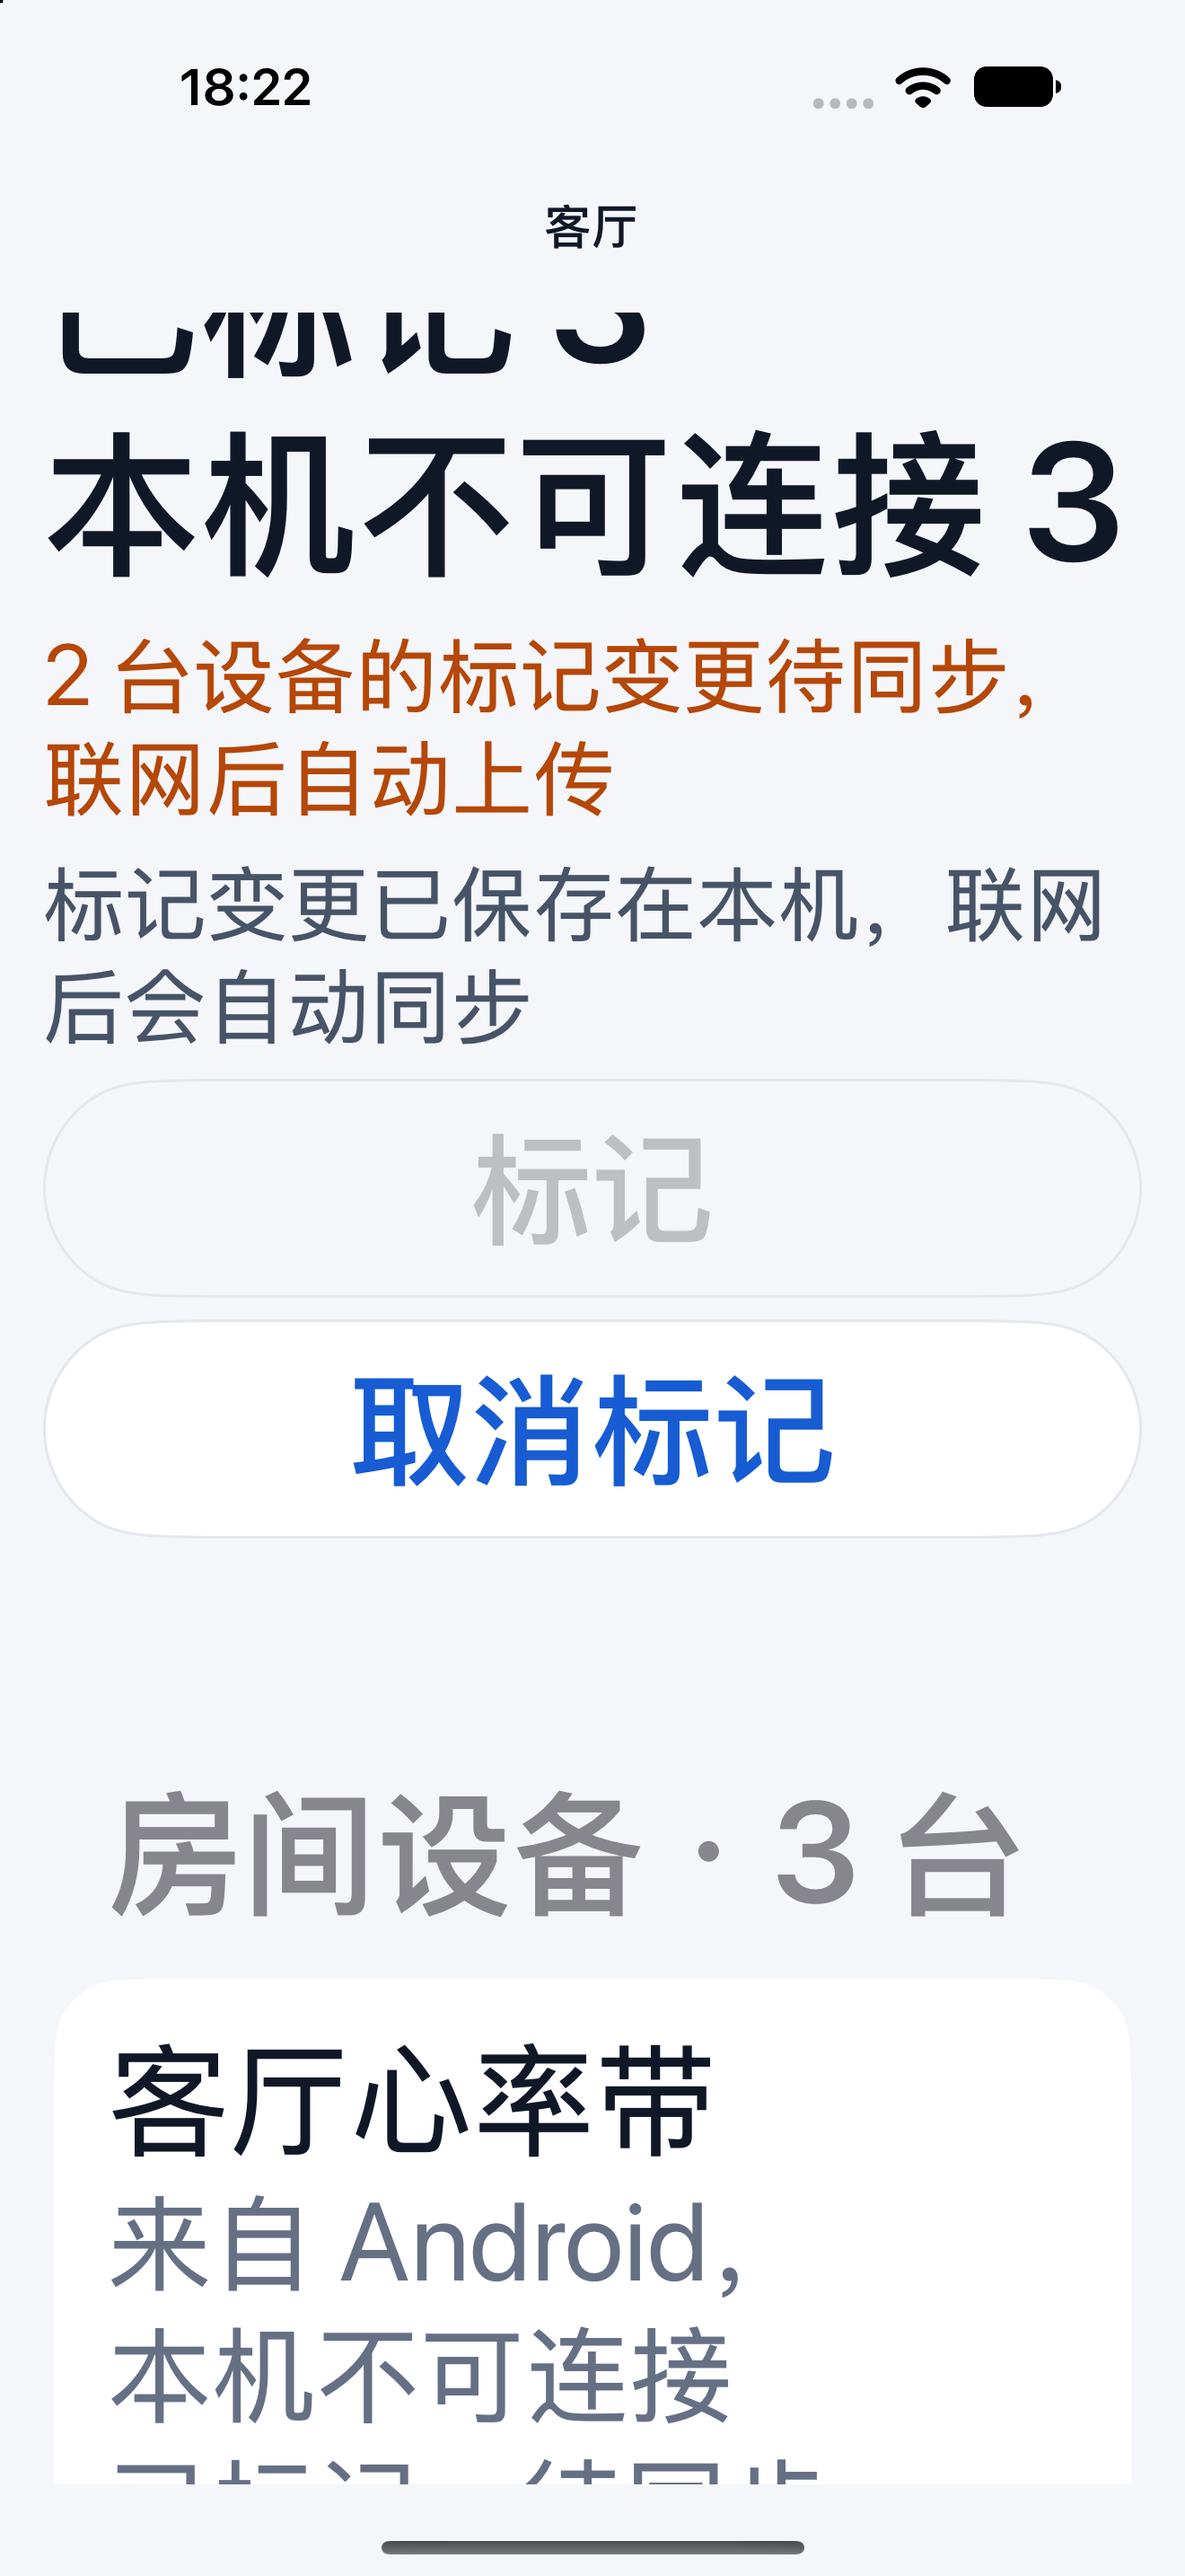
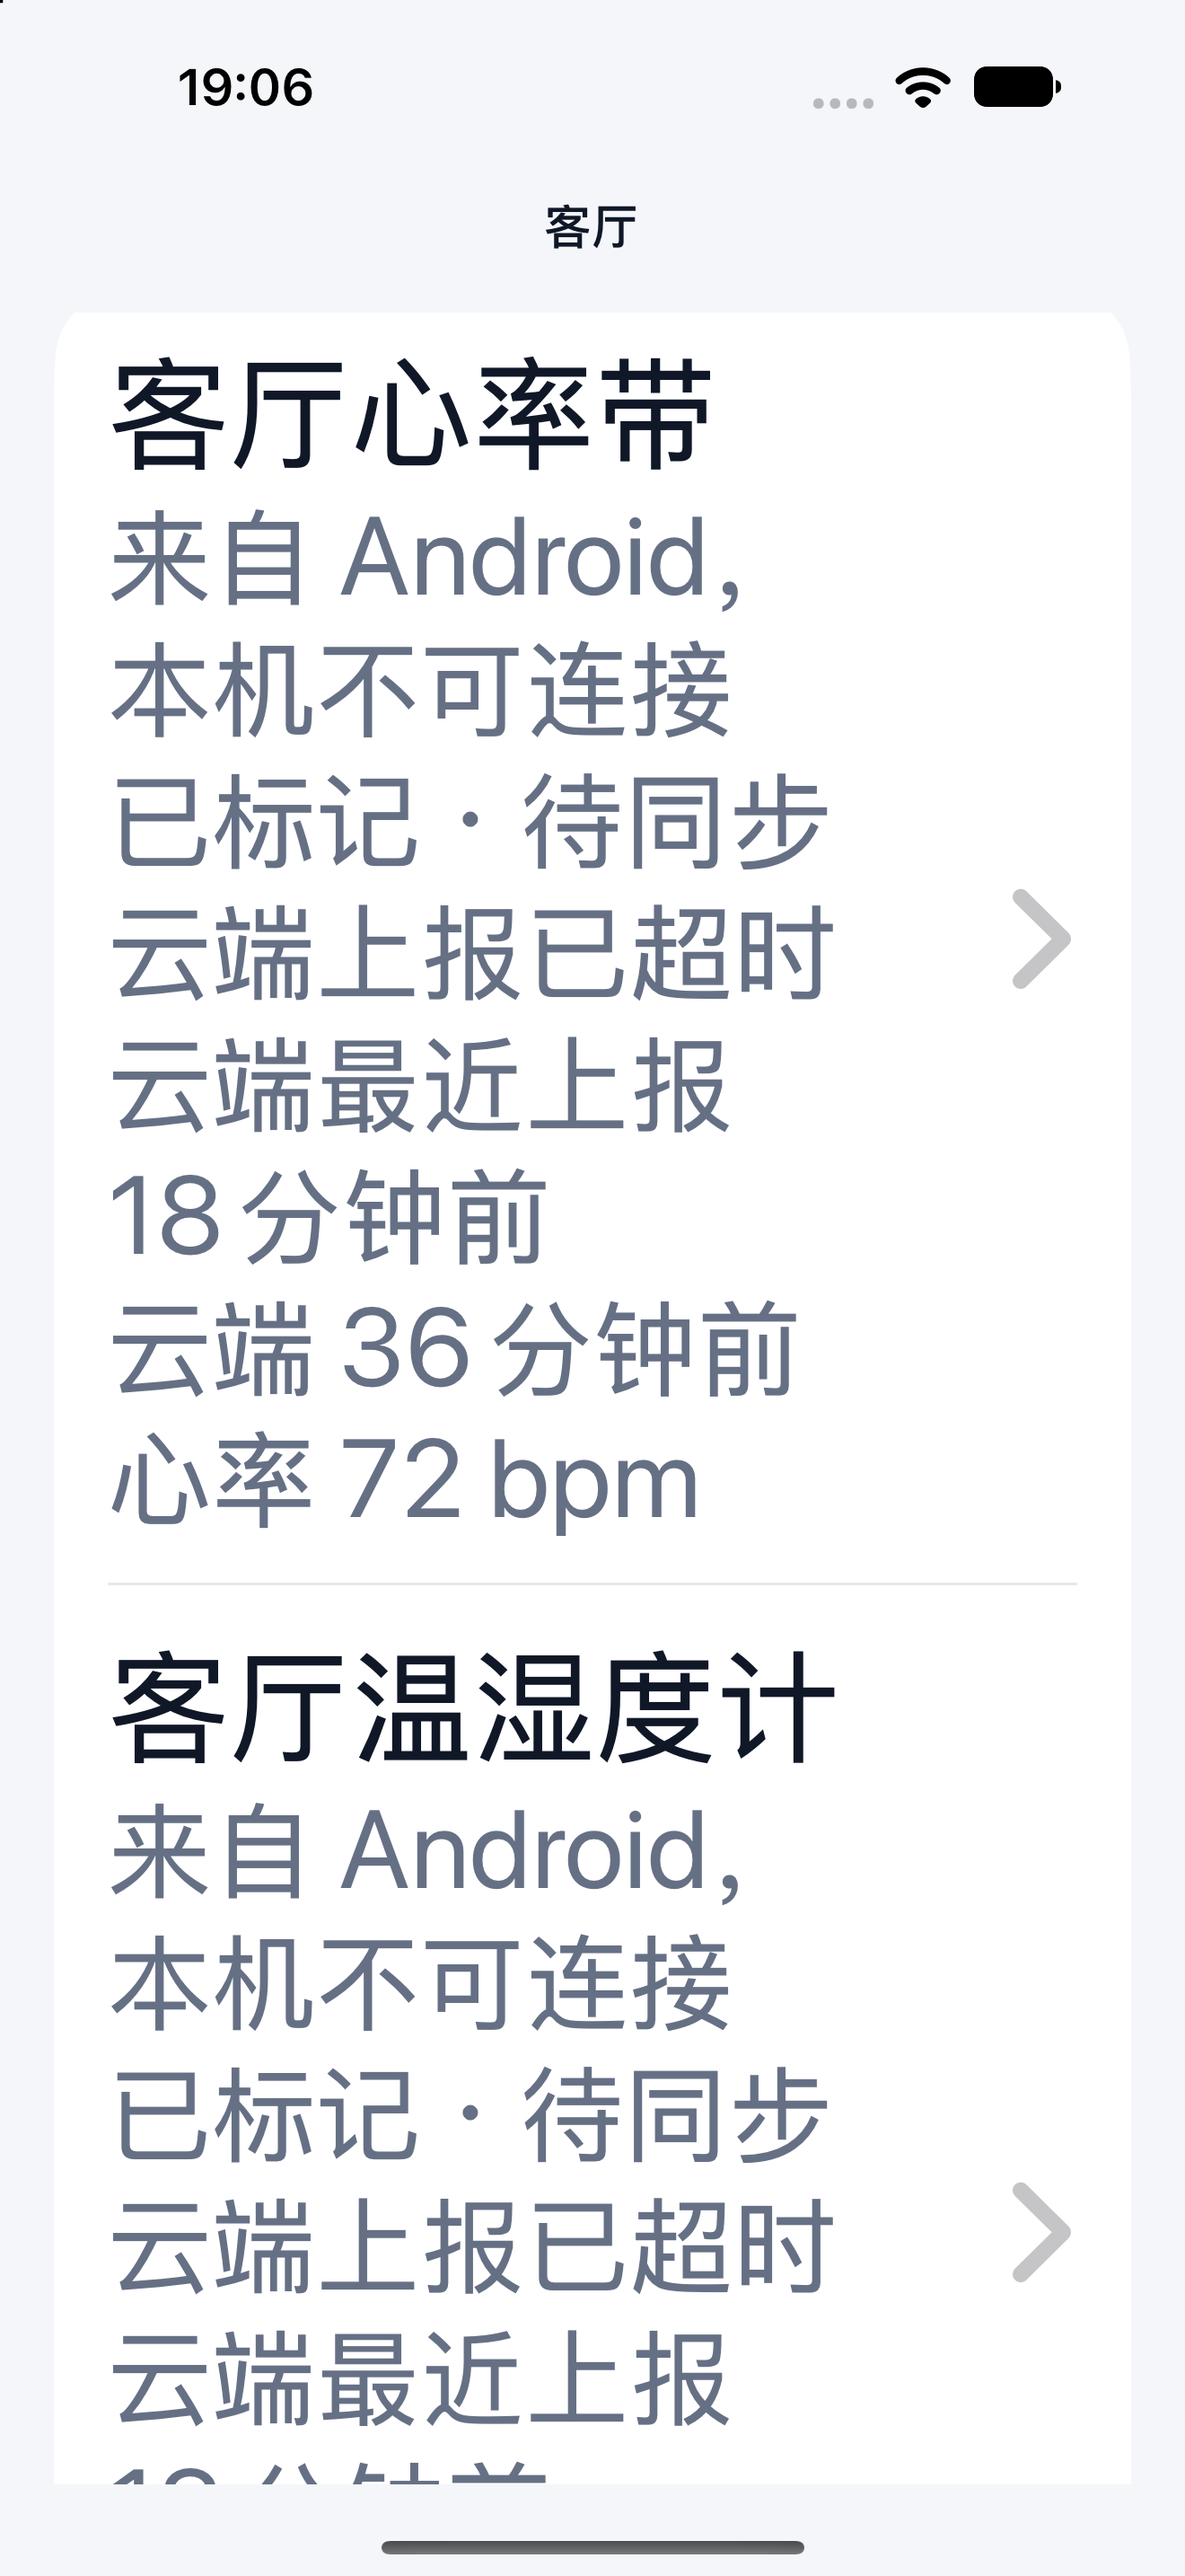
docs: 重拍 AX5 房间详情截图并对齐提示/说明，去掉顶部半截文字
pending / member 分别以提示与只读说明顶部对齐，rows 对齐分区头、pending-rows 对齐首台设备卡片；README 同步说明取景方式。

diff --git a/README.md b/README.md
@@ -80,7 +80,7 @@
 
 | 档位 / 设备 | 截图 | 内容 |
 | --- | --- | --- |
-| AX5（`accessibilityExtraExtraExtraLarge`）<br>iPhone 18 Pro Max · iOS 27.2 | [room-detail-ax5.png](docs/screenshots/room-detail-ax5.png) · [rows](docs/screenshots/room-detail-ax5-rows.png) · [pending](docs/screenshots/room-detail-ax5-pending.png) · [pending-rows](docs/screenshots/room-detail-ax5-pending-rows.png) · [empty](docs/screenshots/room-detail-ax5-empty.png) · [member](docs/screenshots/room-detail-ax5-member.png) | 汇总在 AX 档按项换行（共 3 台 + 6 个计数，部分项再折行），首屏下缘可见批量按钮、设备行需滚动查看（rows）；批量按钮全宽竖排且高度随字号增长，设备行名称 / 四档状态 / 云端最近上报时间 / 云端读数 / 已标记·待同步完整，「来自 Android，」后强制断行避免「本机不可连接」拆成单字行、空态标题「这个房间 / 还没有设备」不拆词、成员只读说明分行、底部不被 Tab 条带遮挡 |
+| AX5（`accessibilityExtraExtraExtraLarge`）<br>iPhone 18 Pro Max · iOS 27.2 | [room-detail-ax5.png](docs/screenshots/room-detail-ax5.png) · [rows](docs/screenshots/room-detail-ax5-rows.png) · [pending](docs/screenshots/room-detail-ax5-pending.png) · [pending-rows](docs/screenshots/room-detail-ax5-pending-rows.png) · [empty](docs/screenshots/room-detail-ax5-empty.png) · [member](docs/screenshots/room-detail-ax5-member.png) | 汇总在 AX 档按项换行（共 3 台 + 6 个计数，部分项再折行），首屏下缘可见批量按钮、设备行需滚动查看（rows）；批量按钮全宽竖排且高度随字号增长，设备行名称 / 四档状态 / 云端最近上报时间 / 云端读数 / 已标记·待同步完整，「来自 Android，」后强制断行避免「本机不可连接」拆成单字行、空态标题「这个房间 / 还没有设备」不拆词、成员只读说明分行、底部不被 Tab 条带遮挡；待同步提示（pending）与成员只读说明（member）在 AX5 首屏放不下，截图分别以提示 / 说明顶部对齐可视区顶部，rows 以「房间设备」分区头对齐、pending-rows 以首台设备卡片对齐，画面上方不出现半截文字 |
 | 200%（AX2 `accessibilityLarge`，≈194%）<br>iPhone 18 Pro Max · iOS 27.2 | [room-detail-200.png](docs/screenshots/room-detail-200.png) · [rows](docs/screenshots/room-detail-200-rows.png) · [pending](docs/screenshots/room-detail-200-pending.png) · [pending-rows](docs/screenshots/room-detail-200-pending-rows.png) · [empty](docs/screenshots/room-detail-200-empty.png) · [member](docs/screenshots/room-detail-200-member.png) | 同一组页面在 200% 近似档复测；iOS 无 Android `fontScale` 的 200% 档，以 AX2 作为近似；AX 档汇总按项拆成多行、按钮竖排，设备行新四档措辞完整（见 rows） |
 | iPad 13 英寸（系统默认字号）<br>iPad Pro 13-inch (M5) · iPadOS 27.2 | [room-detail-ipad.png](docs/screenshots/room-detail-ipad.png) · [rows](docs/screenshots/room-detail-ipad-rows.png) · [pending](docs/screenshots/room-detail-ipad-pending.png) · [pending-rows](docs/screenshots/room-detail-ipad-pending-rows.png) · [empty](docs/screenshots/room-detail-ipad-empty.png) · [member](docs/screenshots/room-detail-ipad-member.png) | 列表居中限宽 760pt，不挤在左侧；汇总 4 行、按钮横排等宽且不溢出；iPad 为顶部浮动 Tab 栏，无底部条带遮挡 |
 
